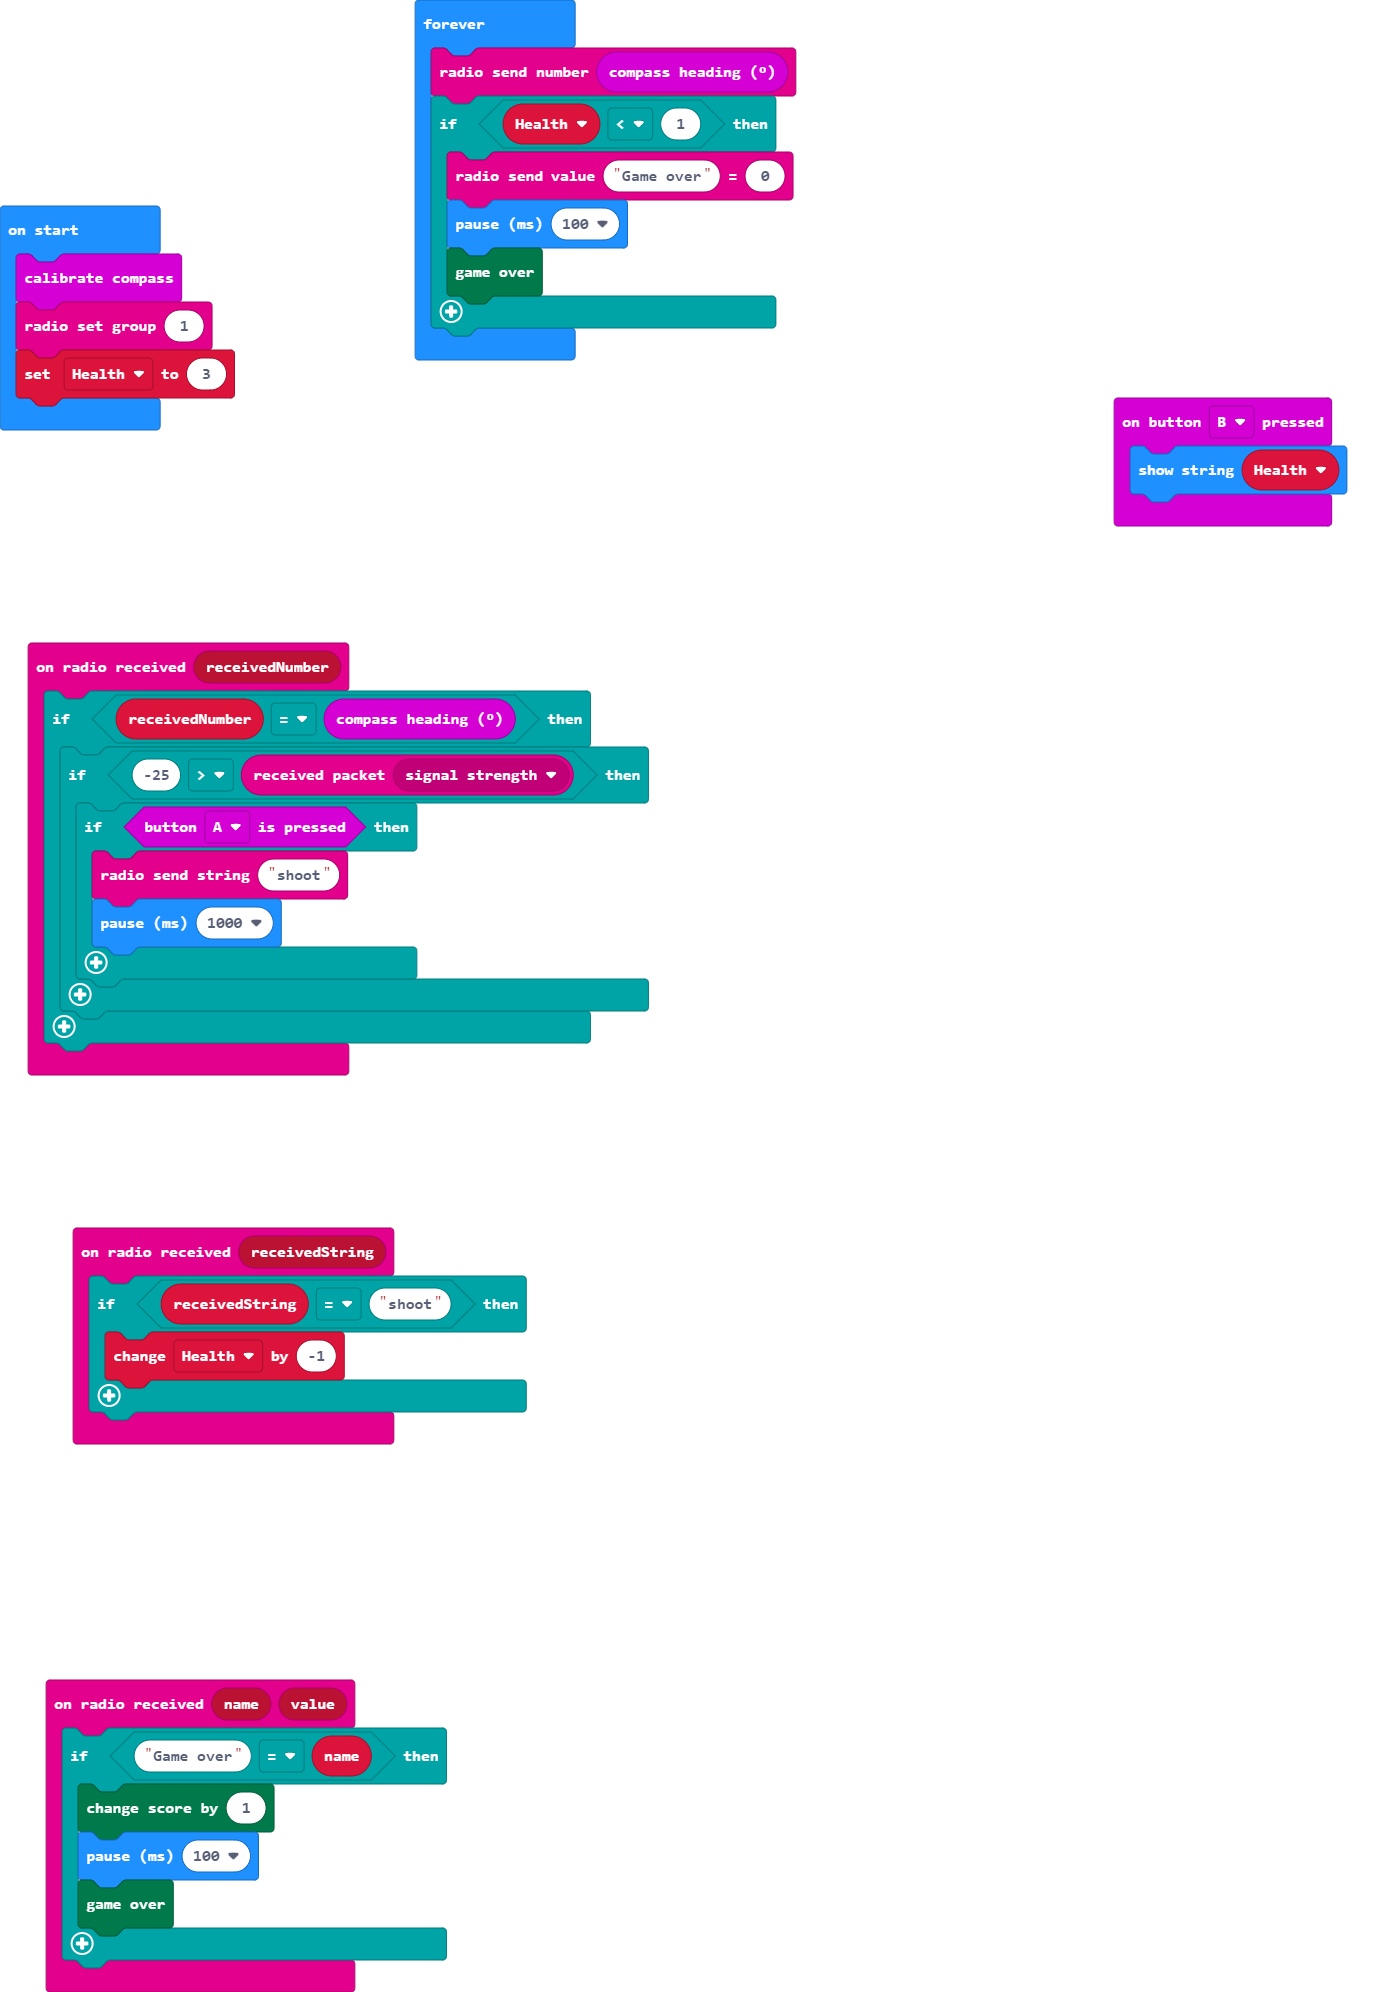
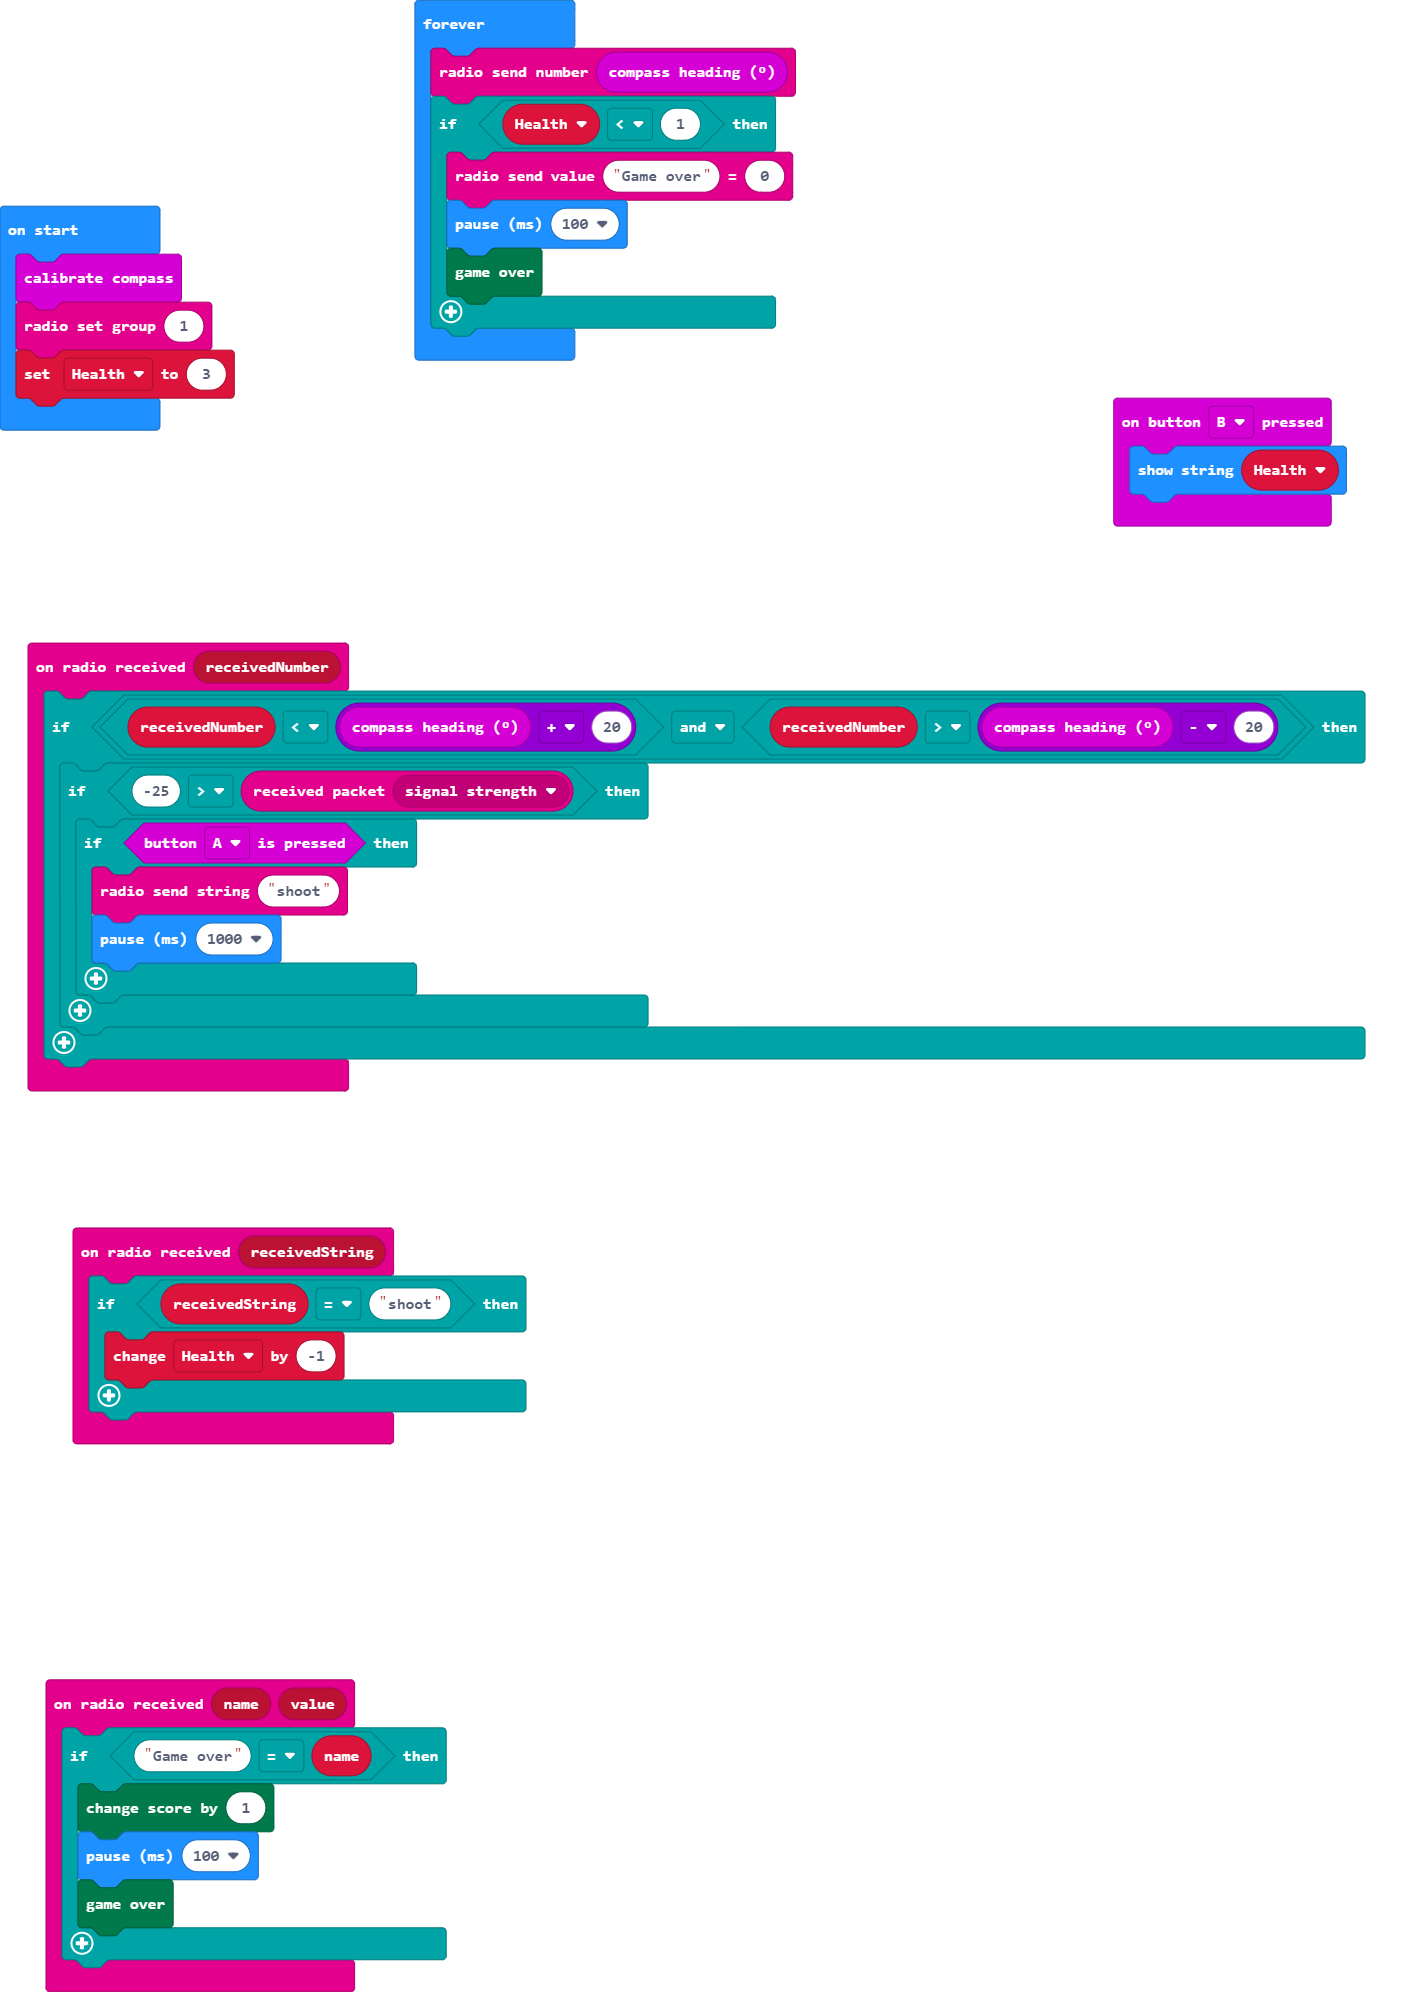
A new aim system for people with less precise aim

diff --git a/main.ts b/main.ts
@@ -1,5 +1,5 @@
 radio.onReceivedNumber(function (receivedNumber) {
-    if (receivedNumber == input.compassHeading()) {
+    if (receivedNumber < input.compassHeading() + 20 && receivedNumber > input.compassHeading() - 20) {
         if (-25 > radio.receivedPacket(RadioPacketProperty.SignalStrength)) {
             if (input.buttonIsPressed(Button.A)) {
                 radio.sendString("shoot")
